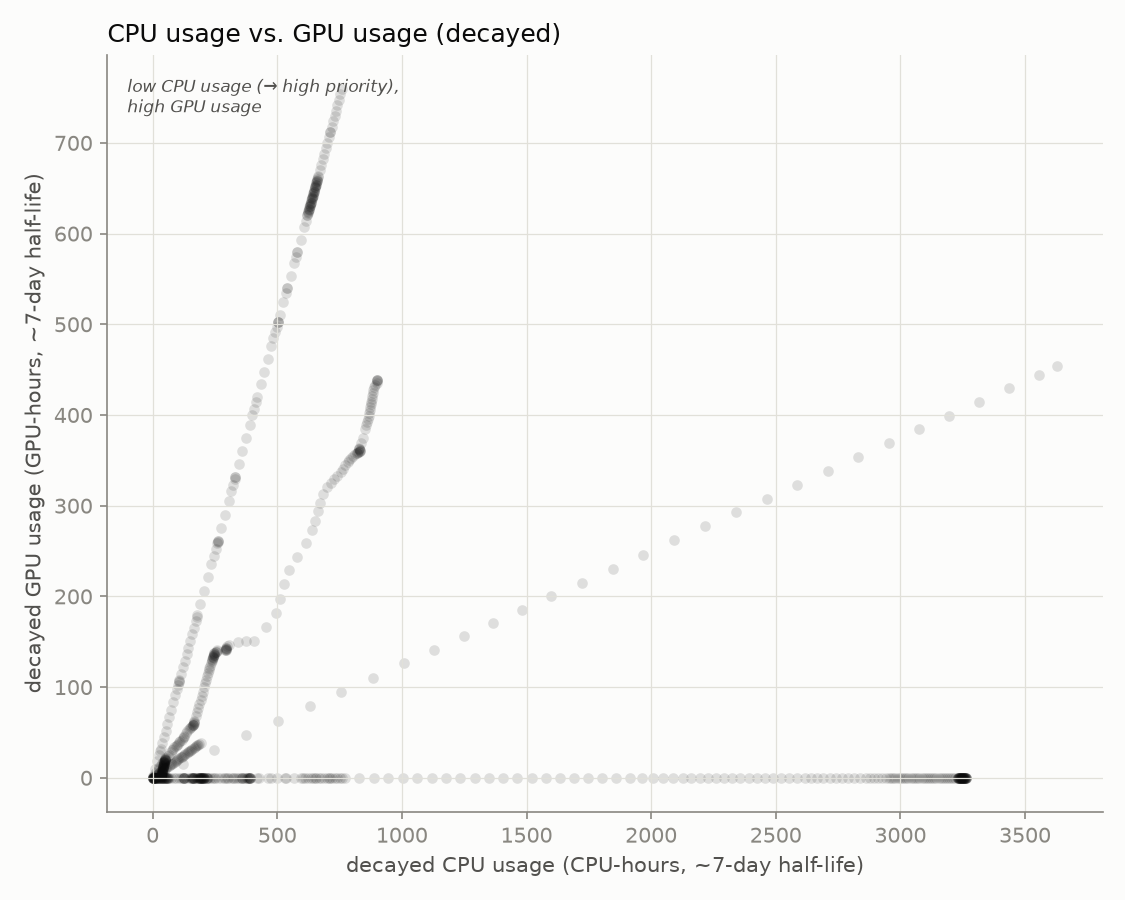
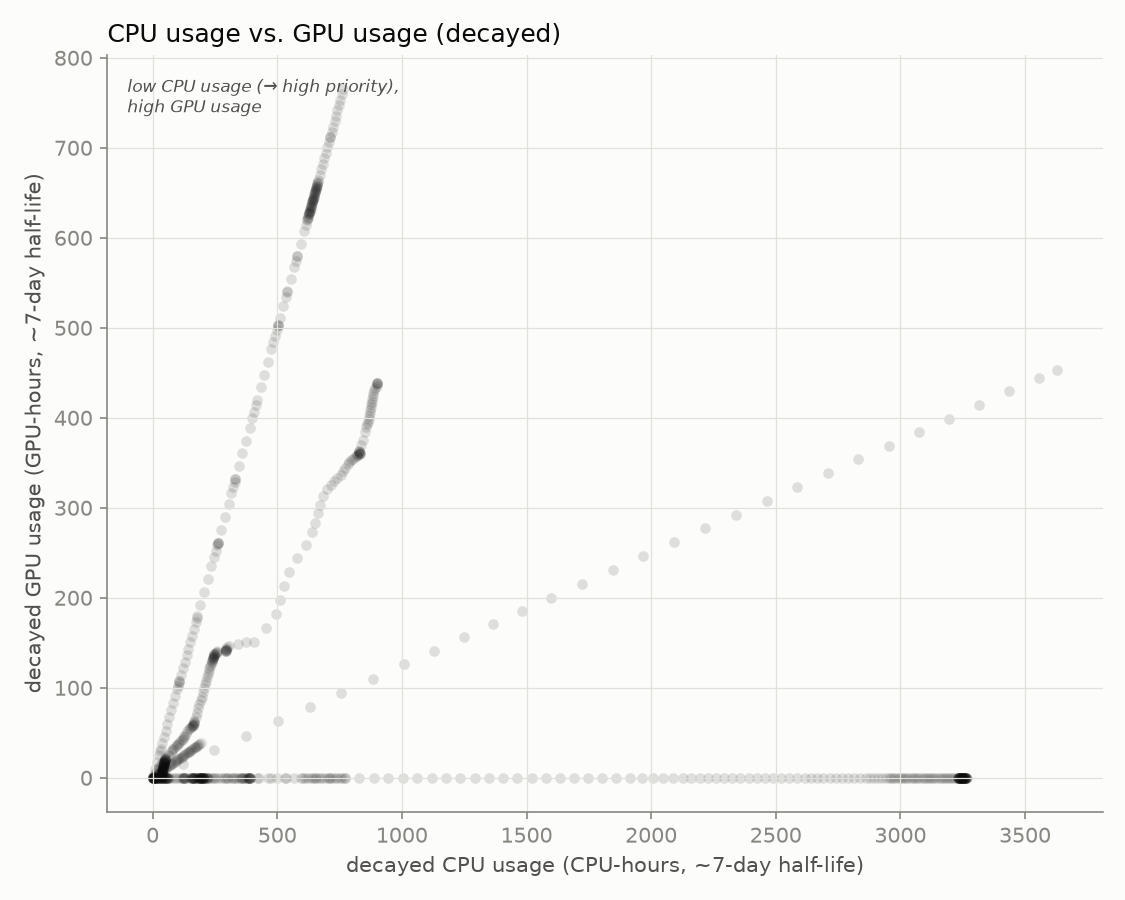
update 2026-08-08T15:00:01-07:00

diff --git a/README.md b/README.md
@@ -2,8 +2,8 @@
 
 Automated GPU/CPU/queue utilization tracker for `hopper.cluster`, updated every 30 minutes by cron. Usernames are anonymized to a stable per-account pseudonym; lab names are real.
 
-Last updated: 2026-08-08T14:30:10-07:00
-Samples: 145 queue snapshots, 145 GPU snapshots
+Last updated: 2026-08-08T15:00:10-07:00
+Samples: 146 queue snapshots, 146 GPU snapshots
 
 ## Resources
 
@@ -16,25 +16,25 @@ Samples: 145 queue snapshots, 145 GPU snapshots
 
 ## Headline
 
-- **44.1%** of the cluster's 60 GPUs allocated, averaged across all samples
-- **46.4%** average `nvidia-smi` utilization *when* a GPU is allocated to a job
+- **44.0%** of the cluster's 60 GPUs allocated, averaged across all samples
+- **46.3%** average `nvidia-smi` utilization *when* a GPU is allocated to a job
 - **88.3%** average cgroup CPU utilization *when* a CPU is allocated to a job
 
 ## Per lab / per user
 
 <table>
 <tr><th>Lab</th><th>User</th><th align='right'>GPU-hours allocated</th><th align='right'>CPU-hours allocated</th><th align='right'>GPU utilization</th></tr>
-<tr style='background-color:#d8ecd8'><td>zhuang-lab</td><td>user-0db9ced0</td><td align='right'>894.5</td><td align='right'>894.5</td><td align='right'>43%</td></tr>
+<tr style='background-color:#d8ecd8'><td>zhuang-lab</td><td>user-0db9ced0</td><td align='right'>902.0</td><td align='right'>902.0</td><td align='right'>43%</td></tr>
 <tr style='background-color:#d8efef'><td>witter-lab</td><td>user-554c620c</td><td align='right'>493.5</td><td align='right'>1019.0</td><td align='right'>68%</td></tr>
 <tr style='background-color:#d8efef'><td>witter-lab</td><td>user-d58f5a15</td><td align='right'>467.5</td><td align='right'>3740.0</td><td align='right'>9%</td></tr>
 <tr style='background-color:#fbebf1'><td>nerenberg-lab</td><td>user-6bb5f332</td><td align='right'>40.0</td><td align='right'>200.0</td><td align='right'>71%</td></tr>
 <tr style='background-color:#fbebf1'><td>nerenberg-lab</td><td>user-fedb5feb</td><td align='right'>22.5</td><td align='right'>54.0</td><td align='right'>67%</td></tr>
-<tr style='background-color:#fbebf1'><td>nerenberg-lab</td><td>user-b12dc074</td><td align='right'>0.0</td><td align='right'>16.0</td><td align='right'>—</td></tr>
-<tr style='background-color:#fcf0d8'><td>ibarragarciapadilla-lab</td><td>user-eec7ffae</td><td align='right'>0.0</td><td align='right'>426.5</td><td align='right'>—</td></tr>
-<tr style='background-color:#fcf0d8'><td>ibarragarciapadilla-lab</td><td>user-3cfc41a3</td><td align='right'>0.0</td><td align='right'>4012.5</td><td align='right'>—</td></tr>
+<tr style='background-color:#dfeaf8'><td>enkavi-lab</td><td>user-c21bdaa4</td><td align='right'>0.0</td><td align='right'>189.0</td><td align='right'>—</td></tr>
+<tr style='background-color:#fcf0d8'><td>ibarragarciapadilla-lab</td><td>user-3cfc41a3</td><td align='right'>0.0</td><td align='right'>4020.0</td><td align='right'>—</td></tr>
 <tr style='background-color:#fcf0d8'><td>ibarragarciapadilla-lab</td><td>user-dad71a72</td><td align='right'>0.0</td><td align='right'>6.0</td><td align='right'>—</td></tr>
-<tr style='background-color:#dfeaf8'><td>enkavi-lab</td><td>user-c21bdaa4</td><td align='right'>0.0</td><td align='right'>187.0</td><td align='right'>—</td></tr>
-<tr style='background-color:#fce8e0'><td>gillen-lab</td><td>user-b89a87ef</td><td align='right'>0.0</td><td align='right'>792.0</td><td align='right'>—</td></tr>
+<tr style='background-color:#fce8e0'><td>gillen-lab</td><td>user-b89a87ef</td><td align='right'>0.0</td><td align='right'>804.0</td><td align='right'>—</td></tr>
+<tr style='background-color:#fcf0d8'><td>ibarragarciapadilla-lab</td><td>user-eec7ffae</td><td align='right'>0.0</td><td align='right'>426.5</td><td align='right'>—</td></tr>
+<tr style='background-color:#fbebf1'><td>nerenberg-lab</td><td>user-b12dc074</td><td align='right'>0.0</td><td align='right'>16.0</td><td align='right'>—</td></tr>
 </table>
 
 ## Usage over time
@@ -45,7 +45,7 @@ Samples: 145 queue snapshots, 145 GPU snapshots
 
 Solid = utilized by lab, hatched = allocated but idle, gray = usage not traceable to a lab, dashed line = cluster capacity.
 
-Attribution combines `nvidia-smi`'s process listing with Slurm's GPU-to-job binding record; the latter caught **2752** readings the former missed.
+Attribution combines `nvidia-smi`'s process listing with Slurm's GPU-to-job binding record; the latter caught **2764** readings the former missed.
 
 ## Queue
 
@@ -57,13 +57,13 @@ Attribution combines `nvidia-smi`'s process listing with Slurm's GPU-to-job bind
 
 ![CPU usage vs GPU usage, decayed](assets/cpu_gpu_usage.png)
 
-One point per user per snapshot (n=694), usage decayed on Slurm's ~7-day fairshare half-life.
+One point per user per snapshot (n=698), usage decayed on Slurm's ~7-day fairshare half-life.
 
 **GPU usage doesn't count toward priority on this cluster** (`TRESBillingWeights`/`PriorityWeightTRES` unset) - watch the **upper-left**: low CPU usage (high priority) with high GPU usage.
 
 ## Recommendations
 
-1. **Weight GPU usage in fairshare.** `TRESBillingWeights` and `PriorityWeightTRES` are both unset right now, so Slurm's fairshare score only sees CPU-seconds - a job holding 4 idle L40S GPUs costs nothing in priority as long as it isn't also holding CPUs. That's the exact failure mode the scatter above is built to catch (upper-left: low CPU usage, high GPU usage). Fix: `scontrol update partition=main TRESBillingWeights=CPU=1.0,GRES/gpu=<weight>` (or set `PriorityWeightTRES` cluster-wide), then `scontrol reconfigure` - a full `slurmctld` restart also works but drops in-flight priority state. A reasonable starting point for `<weight>` is the CPUs-per-GPU ratio on a GPU node (128 CPUs / 4 GPUs = 32), so one GPU costs as much fairshare as the CPU share it displaces; tune from there against next week's headline numbers (44.1% allocated, 46.4% utilized when allocated, as of this snapshot). The weight value itself is a policy call - loop in whoever owns cluster allocation policy before changing it.
+1. **Weight GPU usage in fairshare.** `TRESBillingWeights` and `PriorityWeightTRES` are both unset right now, so Slurm's fairshare score only sees CPU-seconds - a job holding 4 idle L40S GPUs costs nothing in priority as long as it isn't also holding CPUs. That's the exact failure mode the scatter above is built to catch (upper-left: low CPU usage, high GPU usage). Fix: `scontrol update partition=main TRESBillingWeights=CPU=1.0,GRES/gpu=<weight>` (or set `PriorityWeightTRES` cluster-wide), then `scontrol reconfigure` - a full `slurmctld` restart also works but drops in-flight priority state. A reasonable starting point for `<weight>` is the CPUs-per-GPU ratio on a GPU node (128 CPUs / 4 GPUs = 32), so one GPU costs as much fairshare as the CPU share it displaces; tune from there against next week's headline numbers (44.0% allocated, 46.3% utilized when allocated, as of this snapshot). The weight value itself is a policy call - loop in whoever owns cluster allocation policy before changing it.
 
 2. **Escalate on sustained low utilization** (see table and scatter above). Right now the clearest candidate is `user-d58f5a15` in `witter-lab`: 467.5 GPU-hours allocated at 9% average utilization, i.e. roughly 424 GPU-hours that sat idle instead of going to someone in the queue. Turning that into an automated escalation needs two decisions made up front: a utilization threshold (something like under 20% mean utilization over at least 50 allocated GPU-hours is a defensible starting bar - loose enough to skip short debugging runs, tight enough to catch parked allocations) and a grace period (how many consecutive low-utilization snapshots before it counts as "sustained" rather than a momentary lull between batches). Once those are set, the mechanism can be either soft (a bot that reads `data/gpu_samples.jsonl` and reminds the user/lab by email or Slack) or hard (a Slurm-side QOS penalty, e.g. `sacctmgr modify qos <qos> set Priority-=<n>`, applied after N consecutive offending snapshots). Neither exists yet - today the table and scatter above are a read-only signal, not an enforced policy.
 
